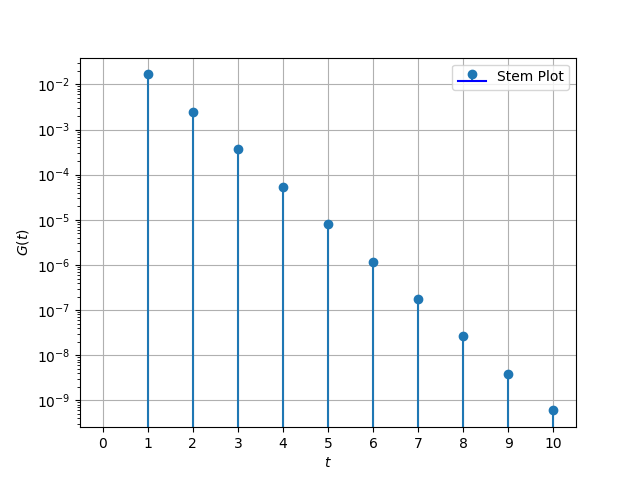
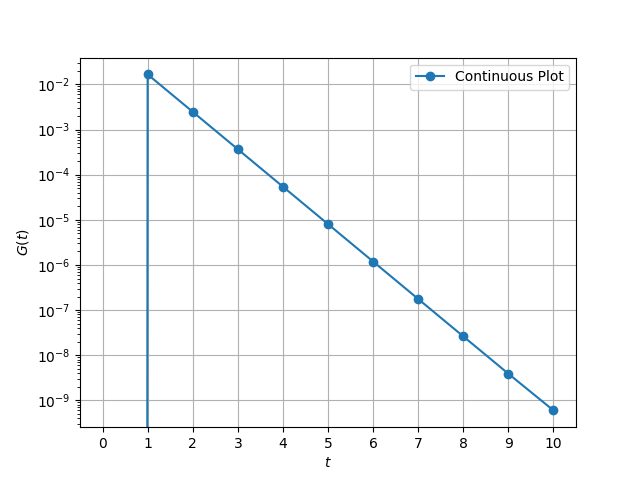
Add files via upload

diff --git a/gate23.ch.44/g44.1.tex b/gate23.ch.44/g44.1.tex
@@ -165,19 +165,19 @@ Which one of the following is the CORRECT expression for the transfer function $
 \newpage
 
 \begin{align}
-\sbrak{\brak{y_{sp}-y(s)}(1) -a(s)}10+ d_2(s)\frac{1}{0.1s+1} &=a(s)  \label{eq:ishitha.g23.ch44.1.eq} \\
+\sbrak{\brak{y_{set}-y(s)}(1) -a(s)}10+ d_2(s)\frac{1}{0.1s+1} &=a(s)  \label{eq:ishitha.g23.ch44.1.eq} \\
 a(s)\brak{\frac{1}{s+1}} + d_1(s)\frac{1}{(2s+1)} &=y(s)  \label{eq:ishitha.g23.ch44.2.eq}
 \end{align}
 
 From ~\eqref{eq:ishitha.g23.ch44.1.eq}
 \begin{align}
-\brak{y_{sp}-y(s)}10 -10a(s) + d_2(s)\frac{1}{0.1s+1}&=a(s) \\
-\brak{y_{sp}-y(s)}\frac{10}{11} + \frac{d_2(s)}{11\brak{0.1s+1}} &= a(s)  \label{eq:ishitha.g23.ch44.3.eq}
+\brak{y_{set}-y(s)}10 -10a(s) + d_2(s)\frac{1}{0.1s+1}&=a(s) \\
+\brak{y_{set}-y(s)}\frac{10}{11} + \frac{d_2(s)}{11\brak{0.1s+1}} &= a(s)  \label{eq:ishitha.g23.ch44.3.eq}
 \end{align}
 
 Substituting ~\eqref{eq:ishitha.g23.ch44.3.eq} in ~\eqref{eq:ishitha.g23.ch44.2.eq}
 \begin{align}
-\sbrak{\brak{y_{sp}-y(s)}\frac{10}{11} + \frac{d_2(s)}{11\brak{0.1s+1}}  }\frac{1}{\brak{s+1}} + d_1(s)\frac{1}{(2s+1)} &= y(s) \\
+\sbrak{\brak{y_{set}-y(s)}\frac{10}{11} + \frac{d_2(s)}{11\brak{0.1s+1}}  }\frac{1}{\brak{s+1}}+ d_1(s)\frac{1}{(2s+1)} &= y(s) \\
 \brak{0-y(s)}\frac{10}{11}\frac{1}{\brak{s+1}} + \frac{d_2(s)}{11\brak{0.1s+1}\brak{s+1}} &= y(s) \\
 \frac{d_2(s)}{11\brak{0.1s+1}\brak{s+1}} &= y(s)\brak{\frac{11\brak{s+1}+10}{11\brak{s+1}}} \\
 \frac{d_2{s}}{\brak{0.1s+1}} &= y(s)\sbrak{11s+21} \\

diff --git a/gate23.ch.44/codes/g44.py b/gate23.ch.44/codes/g44.py
@@ -5,12 +5,12 @@ from matplotlib.ticker import MultipleLocator
 # Load data from the "output.dat" file using numpy's loadtxt
 data = np.loadtxt("output.dat")
 
-# Extract n_values and y_values from the data
-t_values = data[:, 0].astype(int)
+# Extract t_values and Gt_values from the data
+t_values = data[:, 0]
 Gt_values = data[:, 1]
 
-# Create a stem plot
-plt.stem(t_values, Gt_values, linefmt='|', markerfmt='o', basefmt='b', label='Stem Plot')
+# Create a continuous plot
+plt.plot(t_values, Gt_values, marker='o', linestyle='-', label='Continuous Plot')
 
 plt.xlabel('$t$')
 plt.ylabel('$G(t)$')
@@ -20,3 +20,4 @@ plt.gca().xaxis.set_major_locator(MultipleLocator(1))
 plt.legend()
 plt.savefig('../figs/g44fig1.png')
 plt.show()
+
